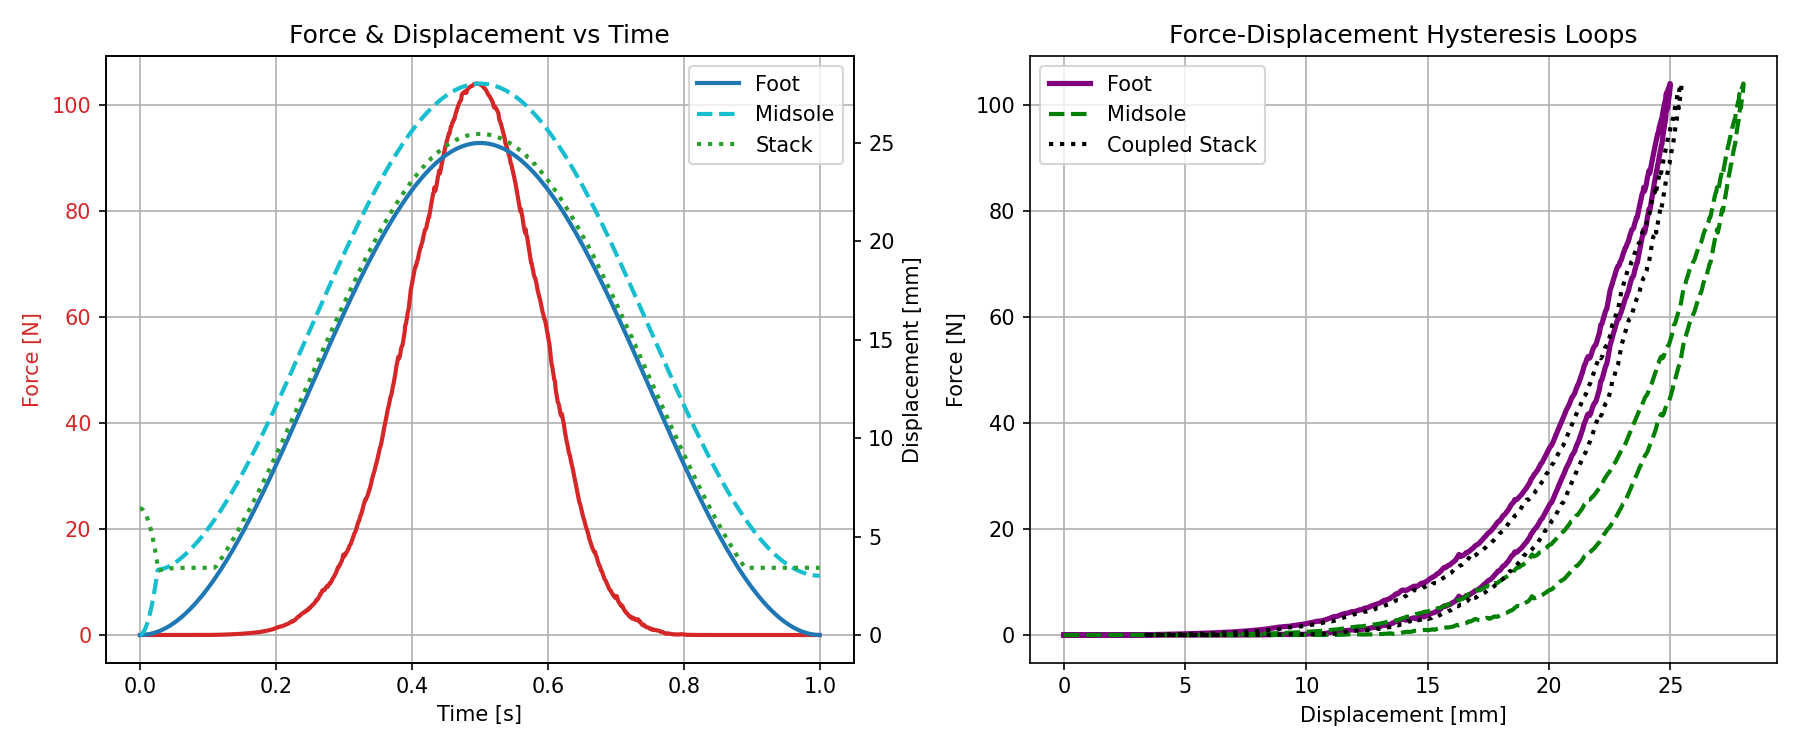
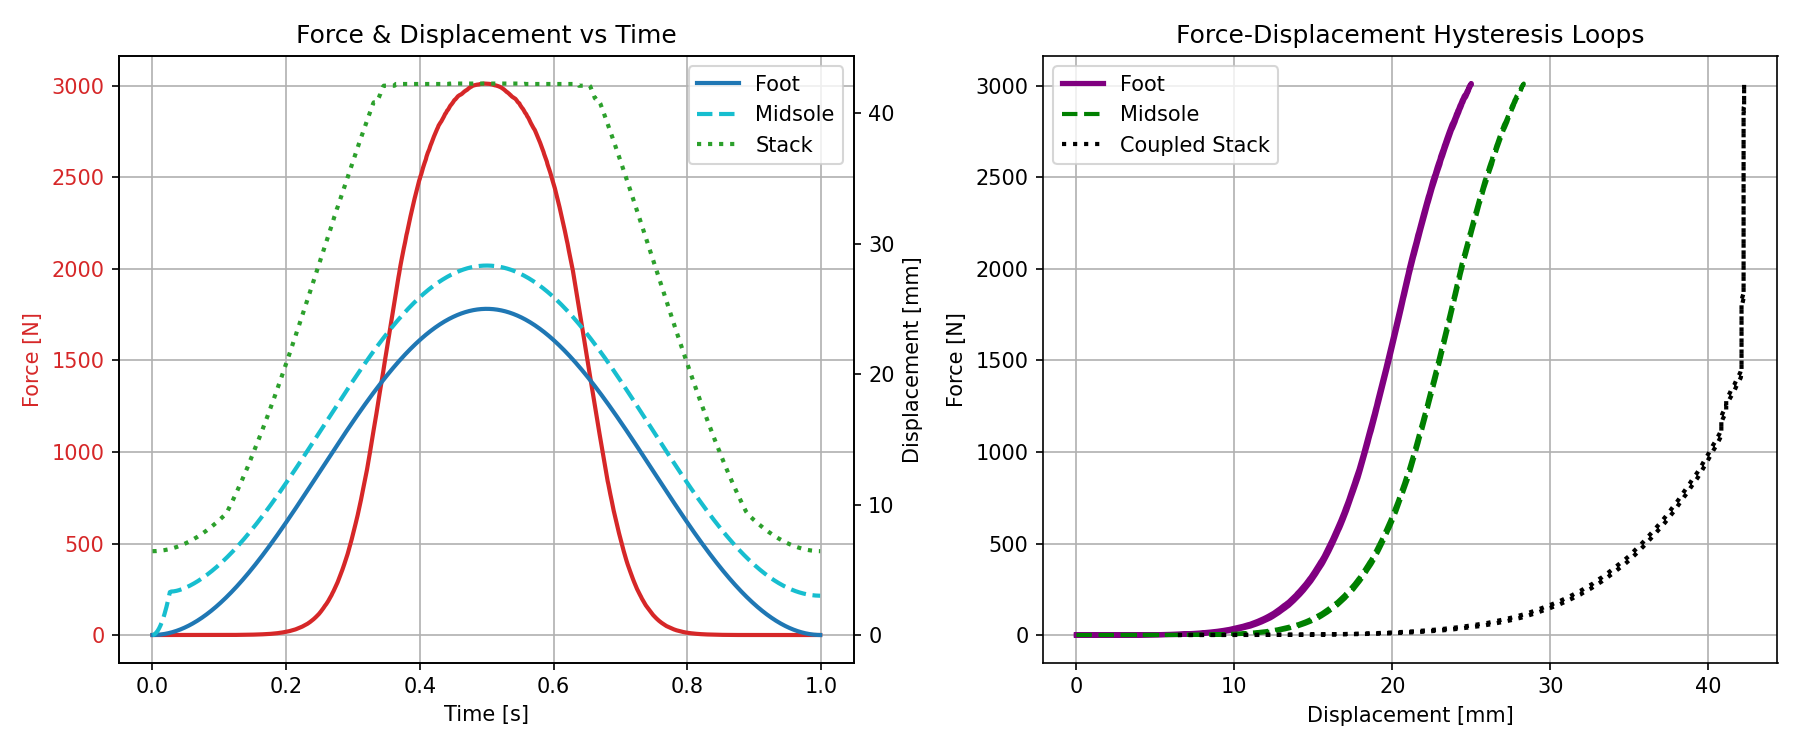
feat: add hydroelastic shoe contact example and update contact visualization assets

diff --git a/newton/examples/contacts/example_hydro_shoe.py b/newton/examples/contacts/example_hydro_shoe.py
@@ -474,7 +474,7 @@ def accumulate_bonded_top_state_kernel(
     slack_length_m: wp.array[float],
     spring_count: int,
     foot_z: float,
-    midsole_z: float,
+    top_reference_z: float,
     foot_vz: float,
     midsole_vz: float,
     spacing_m: float,
@@ -488,7 +488,7 @@ def accumulate_bonded_top_state_kernel(
         return
 
     slack = wp.max(slack_length_m[spring], 1.0e-6)
-    top_world_z = midsole_z + top_m[spring]
+    top_world_z = top_reference_z + top_m[spring]
     foot_sole_world_z = foot_z + foot_sole_z_m[spring]
     displacement = wp.clamp(top_world_z - foot_sole_world_z, 0.0, slack)
     comp_vel = midsole_vz - foot_vz
@@ -1935,7 +1935,7 @@ class Example:
                     self.wp_spring_slack,
                     self.num_springs,
                     float(foot_z),
-                    float(midsole_z),
+                    float(self.start_z),
                     float(foot_vz),
                     float(midsole_vz),
                     float(self.spring_grid.spacing_m),
